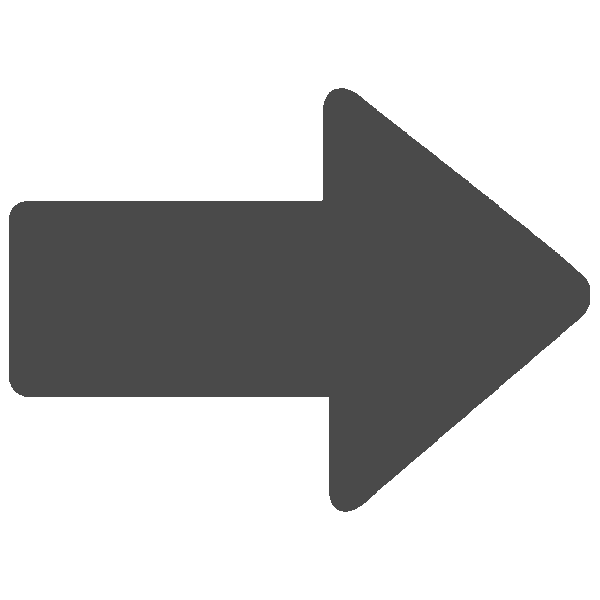
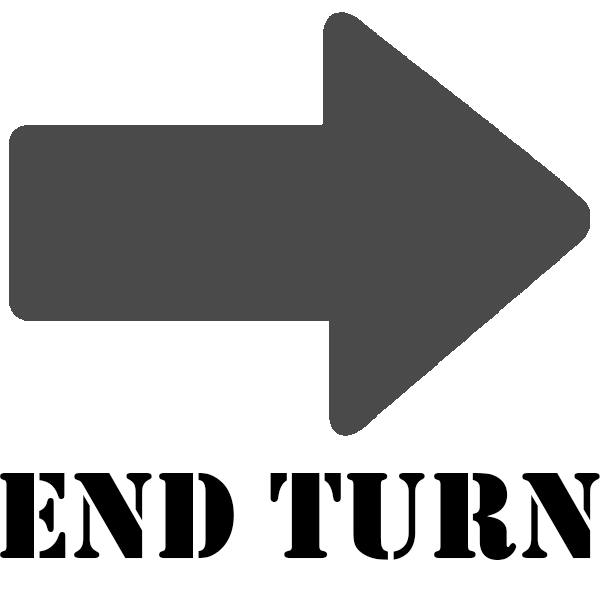
Adjusted end turn button for clarity

diff --git a/Source/Client/GameScene.cpp b/Source/Client/GameScene.cpp
@@ -478,7 +478,23 @@ void GameScene::winScreenRender(ASGE::Renderer * renderer)
 }
 void GameScene::gameScreenRender(ASGE::Renderer * renderer)
 {
+	double xpos = 0;
+	double ypos = 0;
+
+	main_inputs->getCursorPos(xpos, ypos);
+
 	renderer->renderSprite(*game_background.get(), BACKGROUND); //background is game board 
+
+	if (Collision::mouseOnSprite(xpos, ypos, next_turn_button.get()))
+	{
+		next_turn_button->colour(ASGE::COLOURS::POWDERBLUE);
+	}
+
+	else
+	{
+		next_turn_button->colour(ASGE::COLOURS::WHITE);
+	}
+
 	renderer->renderSprite(*next_turn_button.get(), MIDDLE_GROUND_FRONT); // next turn button
 
 	unitSelectionRender(renderer);
@@ -508,43 +524,43 @@ void GameScene::unitSelectionRender(ASGE::Renderer * renderer)
 {
 	if (infantry_select)
 	{
-		renderer->renderSprite(*infantry_enemy_ptr->getAttackSprite(), MIDDLE_GROUND_BACK);
 		renderer->renderSprite(*infantry_enemy_ptr->getMoveSprite(), MIDDLE_GROUND_BACK);
+		renderer->renderSprite(*infantry_enemy_ptr->getAttackSprite(), MIDDLE_GROUND_BACK);
 	}
 	if (tank_select)
 	{
-		renderer->renderSprite(*tank_enemy_ptr->getAttackSprite(), MIDDLE_GROUND_BACK);
 		renderer->renderSprite(*tank_enemy_ptr->getMoveSprite(), MIDDLE_GROUND_BACK);
+		renderer->renderSprite(*tank_enemy_ptr->getAttackSprite(), MIDDLE_GROUND_BACK);
 	}
 	if (artillery_select)
 	{
-		renderer->renderSprite(*artillery_enemy_ptr->getAttackSprite(), MIDDLE_GROUND_BACK);
 		renderer->renderSprite(*artillery_enemy_ptr->getMoveSprite(), MIDDLE_GROUND_BACK);
+		renderer->renderSprite(*artillery_enemy_ptr->getAttackSprite(), MIDDLE_GROUND_BACK);
 	}
 	if (sniper_select)
 	{
-		renderer->renderSprite(*sniper_enemy_ptr->getAttackSprite(), MIDDLE_GROUND_BACK);
 		renderer->renderSprite(*sniper_enemy_ptr->getMoveSprite(), MIDDLE_GROUND_BACK);
+		renderer->renderSprite(*sniper_enemy_ptr->getAttackSprite(), MIDDLE_GROUND_BACK);
 	}
 	if (infantry2_select)
 	{
-		renderer->renderSprite(*infantry_ally_ptr->getAttackSprite(), MIDDLE_GROUND_BACK);
 		renderer->renderSprite(*infantry_ally_ptr->getMoveSprite(), MIDDLE_GROUND_BACK);
+		renderer->renderSprite(*infantry_ally_ptr->getAttackSprite(), MIDDLE_GROUND_BACK);
 	}
 	if (tank2_select)
 	{
-		renderer->renderSprite(*tank_ally_ptr->getAttackSprite(), MIDDLE_GROUND_BACK);
 		renderer->renderSprite(*tank_ally_ptr->getMoveSprite(), MIDDLE_GROUND_BACK);
+		renderer->renderSprite(*tank_ally_ptr->getAttackSprite(), MIDDLE_GROUND_BACK);
 	}
 	if (artillery2_select)
 	{
-		renderer->renderSprite(*artillery_ally_ptr->getAttackSprite(), MIDDLE_GROUND_BACK);
 		renderer->renderSprite(*artillery_ally_ptr->getMoveSprite(), MIDDLE_GROUND_BACK);
+		renderer->renderSprite(*artillery_ally_ptr->getAttackSprite(), MIDDLE_GROUND_BACK);
 	}
 	if (sniper2_select)
 	{
-		renderer->renderSprite(*sniper_ally_ptr->getAttackSprite(), MIDDLE_GROUND_BACK);
 		renderer->renderSprite(*sniper_ally_ptr->getMoveSprite(), MIDDLE_GROUND_BACK);
+		renderer->renderSprite(*sniper_ally_ptr->getAttackSprite(), MIDDLE_GROUND_BACK);
 	}
 }
 void GameScene::unitHoverInfoRender(ASGE::Renderer * renderer)
